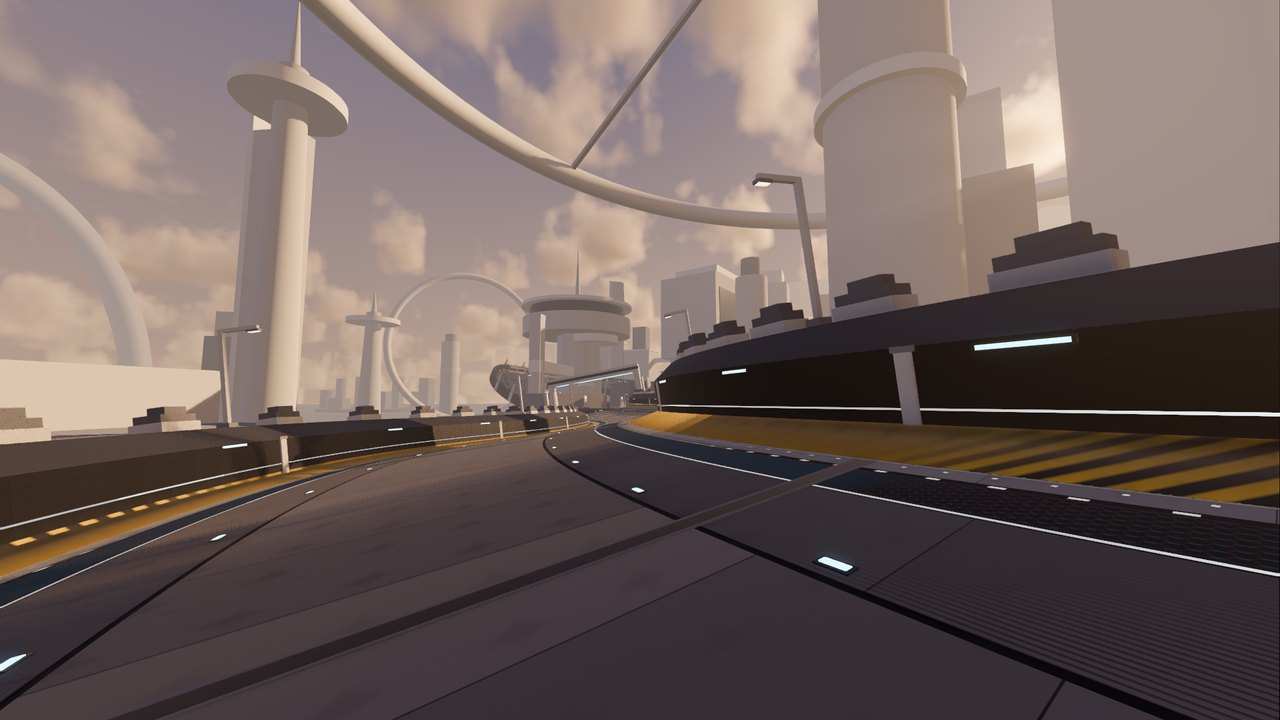
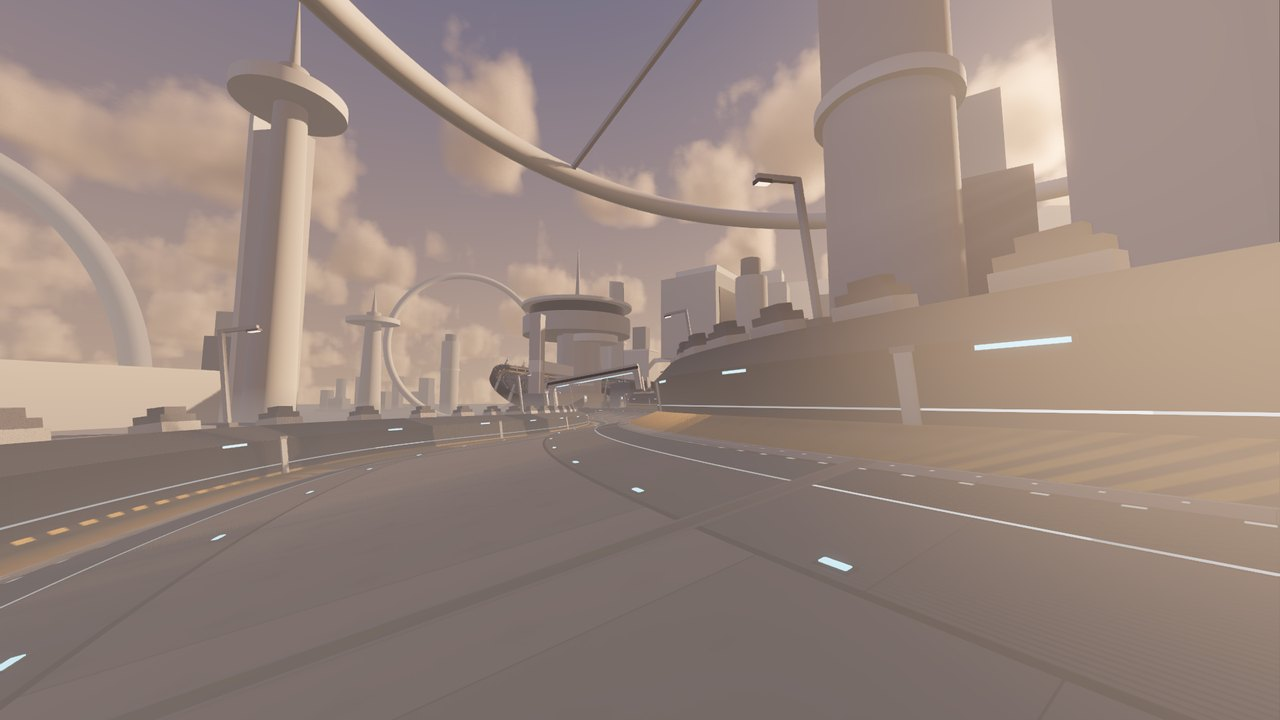
Sky Lab: haze example at the road's height, filmstrip on game time
The readout shows the height fog's top against the road's height, since a
raised track can leave its fog layer far below the road.

Claude-Session: https://claude.ai/code/session_01AY6psELc1k9Y1KGgspowvE

diff --git a/docs/sky-lab/index.html b/docs/sky-lab/index.html
@@ -309,10 +309,11 @@ td code { overflow-wrap: normal; white-space: nowrap; }
   </div>
 </div>
 <h3>Example: haze</h3>
-<p>More height fog and aerial perspective, with denser distance fog from the Sky tab. The city recedes and the road stays clear.</p>
+<p>The height fog brought up to Utopia's raised road and thickened, with more aerial perspective and denser distance fog from the Sky tab. A warm haze settles over the road and the city behind it fades.</p>
+<div class="tip">Height fog is measured in world height, not from the road. On a raised track like Utopia, a layer left at its old height sits far below the road and does nothing: check <code>fog_height</code> against the road's height, which the readout shows beside the height fog.</div>
 <div class="ba" data-before="Saved" data-after="Hazy">
   <img src="img/ex_haze_before.jpg" alt="Before: a clear view across the city." width="1280" height="720" loading="lazy">
-  <div class="after"><img src="img/ex_haze_after.jpg" alt="After: the city fading into haze." width="1280" height="720" loading="lazy"></div>
+  <div class="after"><img src="img/ex_haze_after.jpg" alt="After: a warm haze over the road, with the city fading behind it." width="1280" height="720" loading="lazy"></div>
 </div>
 <h3>Example: grade</h3>
 <p>Contrast 1.25, saturation 1.35 and more glow. Keep an eye on the exposure readout's clipped figure as you push contrast.</p>
